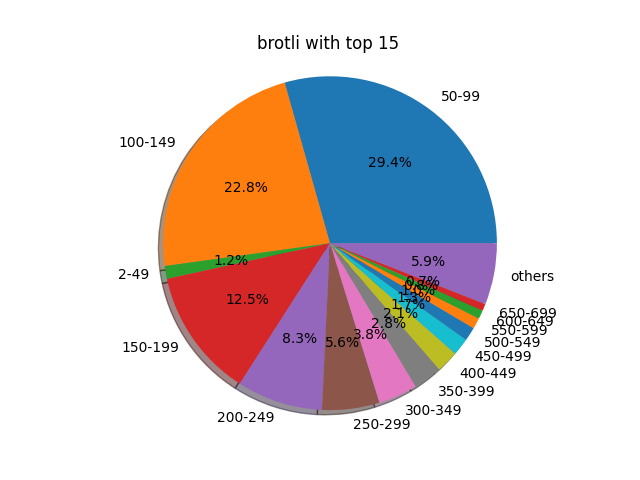
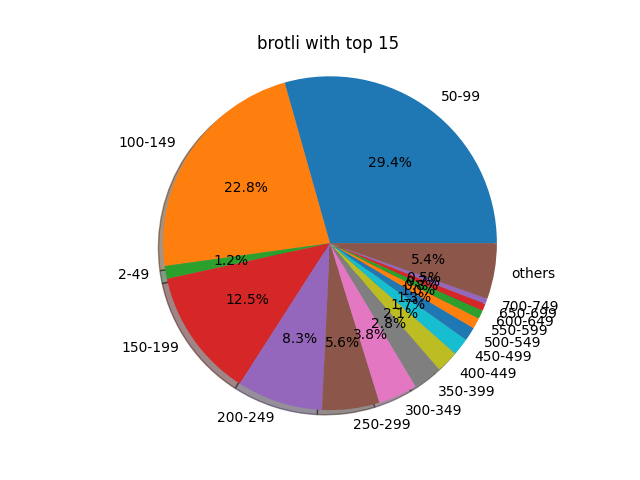
fix bugs.

Changed region(s): [[0.5312, 0.5, 0.875, 0.625], [0.7812, 0.625, 0.875, 0.6562]]

diff --git a/src/analyzer_brotli.py b/src/analyzer_brotli.py
@@ -243,7 +243,7 @@ WHERE s.decode_type = mode.decode_type
             WHERE decode_type = "brotli" 
             GROUP BY (decode_time / {sep})
             ORDER BY decode_times DESC
-            LIMIT {top - 1}"""
+            LIMIT {top}"""
         )
 
         brotliGroupBy = []
